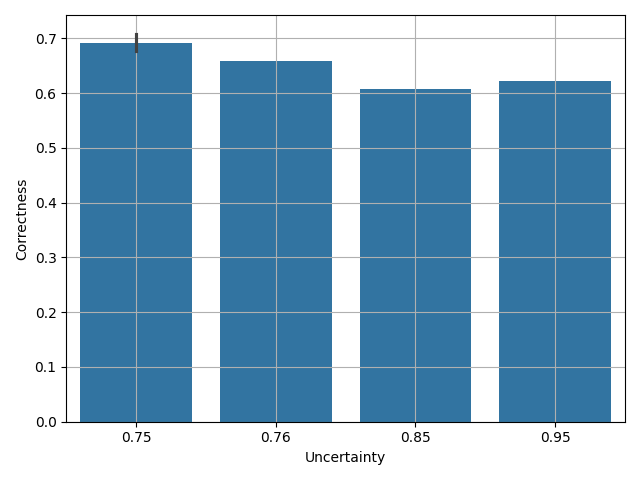
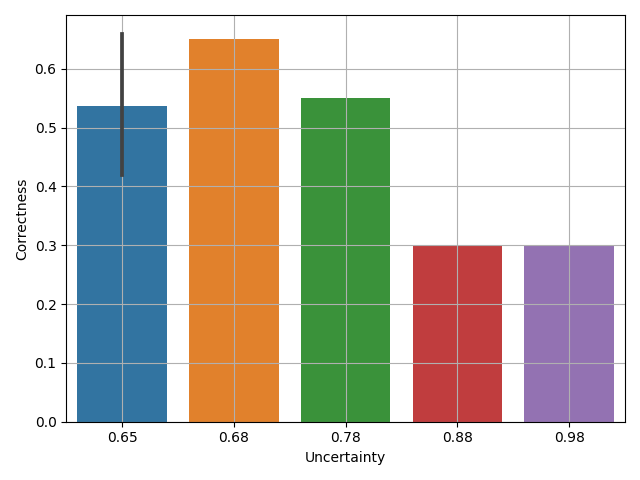
add plotting

diff --git a/run/analysis.py b/run/analysis.py
@@ -82,51 +82,59 @@ if __name__ == '__main__':
         # ax.set_xticks([y+1 for y in range(len(indicators))], labels=indicators)
         # plt.grid()
         # plt.savefig(f'../tmp/confidence_histogram_{model}_{dataset}_{method}.png')
-        correctness_score = df['score'].to_numpy()
+        correctness_score = df['score'].to_numpy() + np.random.uniform(-0.1, 0.1, len(df['score']))
+        # plot the histogram of correctness score
+        fig, ax = plt.subplots()
+        ax.hist(correctness_score, bins=20)
+        ax.set_title('Correctness score distribution')
+        ax.set_xlabel('Correctness score')
+        ax.set_ylabel('Frequency')
+        plt.grid()
+        plt.savefig(f'../tmp/correctness_histogram_{model}_{dataset}_{method}.png')
+
         for indicator in indicators:
             fig, ax = plt.subplots()
             uncertainties = df[indicator].to_numpy()
-            ax = make_plots.histogram(correctness_score, uncertainties, fig, ax)
-            plt.savefig(f'../tmp/erce_{model}_{dataset}_{indicator}.png')
-            breakpoint()
+            ax = make_plots.histogram_alternative(correctness_score, uncertainties, fig, ax)
+            plt.savefig(f'../tmp/erce_alternative{model}_{dataset}_{indicator}.png')
 
-        fig, ax = plt.subplots()
-        ax.violinplot(df[indicators],
-                  showmeans=False,
-                  showmedians=True)
-        ax.set_title('Uncertainty value distribution')
-        ax.set_xticks([y+1 for y in range(len(indicators))], labels=indicators)
-        plt.grid()
-        plt.savefig(f'../tmp/confidence_histogram_{model}_{dataset}_{method}.png')
+        # fig, ax = plt.subplots()
+        # ax.violinplot(df[indicators],
+        #           showmeans=False,
+        #           showmedians=True)
+        # ax.set_title('Uncertainty value distribution')
+        # ax.set_xticks([y+1 for y in range(len(indicators))], labels=indicators)
+        # plt.grid()
+        # plt.savefig(f'../tmp/confidence_histogram_{model}_{dataset}_{method}.png')
         
-        if 'entropy' in indicators:
-            fig, ax = plt.subplots()
-            threshold = 0.5
-            y_true = correctness >= threshold
-            y_score = -df['entropy']
-            # plot roc curve
-            fpr, tpr, _ = roc_curve(y_true, y_score)
-            ax.plot(fpr, tpr, label='ROC curve')
-            ax.plot([0, 1], [0, 1], 'k--', label='Random')
-            ax.set_xlabel('False Positive Rate')
-            ax.set_ylabel('True Positive Rate')
-            ax.set_title('ROC curve')
-            ax.legend()
-            ax.grid()
-            plt.savefig(f'../tmp/roc_curve_{model}_{dataset}_{method}.png')
+        # if 'entropy' in indicators:
+        #     fig, ax = plt.subplots()
+        #     threshold = 0.5
+        #     y_true = correctness_score >= threshold
+        #     y_score = -df['entropy']
+        #     # plot roc curve
+        #     fpr, tpr, _ = roc_curve(y_true, y_score)
+        #     ax.plot(fpr, tpr, label='ROC curve')
+        #     ax.plot([0, 1], [0, 1], 'k--', label='Random')
+        #     ax.set_xlabel('False Positive Rate')
+        #     ax.set_ylabel('True Positive Rate')
+        #     ax.set_title('ROC curve')
+        #     ax.legend()
+        #     ax.grid()
+        #     plt.savefig(f'../tmp/roc_curve_{model}_{dataset}_{method}.png')
         
-        if 'degree' in indicators:
-            fig, ax = plt.subplots()
-            threshold = 0.5
-            y_true = correctness >= threshold
-            y_score = -df['degree']
-            # plot roc curve
-            fpr, tpr, _ = roc_curve(y_true, y_score)
-            ax.plot(fpr, tpr, label='ROC curve')
-            ax.plot([0, 1], [0, 1], 'k--', label='Random')
-            ax.set_xlabel('False Positive Rate')
-            ax.set_ylabel('True Positive Rate')
-            ax.set_title('ROC curve')
-            ax.legend()
-            ax.grid()
-            plt.savefig(f'../tmp/roc_curve_{model}_{dataset}_{method}_degree.png')
+        # if 'degree' in indicators:
+        #     fig, ax = plt.subplots()
+        #     threshold = 0.5
+        #     y_true = correctness >= threshold
+        #     y_score = -df['degree']
+        #     # plot roc curve
+        #     fpr, tpr, _ = roc_curve(y_true, y_score)
+        #     ax.plot(fpr, tpr, label='ROC curve')
+        #     ax.plot([0, 1], [0, 1], 'k--', label='Random')
+        #     ax.set_xlabel('False Positive Rate')
+        #     ax.set_ylabel('True Positive Rate')
+        #     ax.set_title('ROC curve')
+        #     ax.legend()
+        #     ax.grid()
+        #     plt.savefig(f'../tmp/roc_curve_{model}_{dataset}_{method}_degree.png')

diff --git a/indicators/blackbox.py b/indicators/blackbox.py
@@ -127,10 +127,12 @@ class Eccentricity(BlackBox):
         '''
         batch_sim_mats = jaccard_similarity(batch_responses) if self.affinity_mode == 'jaccard' else self.sm.similarity_mat(batch_prompts, batch_responses)
         batch_projected = spectral_projected(self.affinity_mode, batch_sim_mats, threshold=0.1)
-        batch_Cs = [-np.linalg.norm(projected-projected.mean(0)[None, :],2,axis=1) for projected in batch_projected]
+        # batch_Cs = [-np.linalg.norm(projected-projected.mean(0)[None, :],2,axis=1) for projected in batch_projected]
         # batch_U = [np.linalg.norm(projected-projected.mean(0)[None, :],2).clip(-1, 1) for projected in batch_projected]
-        batch_U = [np.linalg.norm(projected-projected.mean(0)[None, :], 2) for projected in batch_projected]
-        return batch_U, batch_Cs
+        # batch_U = [np.linalg.norm(projected-projected.mean(0)[None, :], 2) for projected in batch_projected]
+        # return batch_U, batch_Cs
+        ds = np.asarray([np.linalg.norm(x -x.mean(0)[None, :],2,axis=1) for x in batch_projected])
+        return np.linalg.norm(ds, 2,1), ds
     
 class Degree(BlackBox):
     def __init__(self, affinity_mode='disagreement', semantic_model=None, device='cuda'):
@@ -149,9 +151,11 @@ class Degree(BlackBox):
         '''
         batch_sim_mat = jaccard_similarity(batch_responses) if self.affinity_mode == 'jaccard' else self.sm.similarity_mat(batch_prompts, batch_responses)
         batch_W = [pc.get_affinity_mat(sim_mat, self.affinity_mode) for sim_mat in batch_sim_mat]
-        batch_Cs = [np.mean(W, axis=1) for W in batch_W]
-        batch_U = [1/W.shape[0]-np.sum(W)/W.shape[0]**2 for W in batch_W]
-        return batch_U, batch_Cs
+        # batch_Cs = [np.mean(W, axis=1) for W in batch_W]
+        # batch_U = [1/W.shape[0]-np.sum(W)/W.shape[0]**2 for W in batch_W]
+        # return batch_U, batch_Cs
+        ret = np.asarray([np.sum(1-_, axis=1) for _ in batch_W])
+        return ret.mean(1), ret
 
 class SpectralEigv(BlackBox):
     def __init__(self, affinity_mode, temperature=1.0, semantic_model=None, adjust=False, device='cuda'):

diff --git a/utils/make_plots.py b/utils/make_plots.py
@@ -53,3 +53,40 @@ def histogram(correctness, uncertainties, fig, ax, num_bins=10, **kwargs):
     ax.grid()
     fig.tight_layout()
     return ax
+
+def histogram_alternative(correctness, uncertainties, fig, ax, num_bins=10, **kwargs):
+    n = len(correctness)
+    bin_endpoints = [round(ele) for ele in np.linspace(0, n, num_bins+1)]
+    sorted_indices = np.argsort(uncertainties)
+    correctness = correctness[sorted_indices]
+    uncertainties = uncertainties[sorted_indices]
+    a_map = -np.ones_like(correctness)
+    u_map = np.zeros_like(uncertainties)
+    a_hats = []
+    u_hats = []
+    # compute a_hat, u_hat and a_map: i -> a_hat, u_map: i -> u_hat
+    for idx_bin in range(1, num_bins+1):
+        lo, hi = bin_endpoints[idx_bin-1], bin_endpoints[idx_bin]
+        if hi > lo:
+            # if idx_bin == num_bins:  hi += 1
+            bin_correctness = correctness[lo:hi]
+            a_hat = np.mean(bin_correctness)
+            a_map[lo:hi] = a_hat
+            u_hat = np.mean(uncertainties[lo:hi]) if hi > lo else None
+            u_map[lo:hi] = u_hat
+            a_hats.append(a_hat)
+            u_hats.append(u_hat)
+    
+    count_corrects = []
+    count_uncertainties = []
+    for a_hat, u_hat in zip(a_hats, u_hats):
+        count_correct = (np.sum(a_map >= a_hat) - (1+np.sum(a_map == a_hat)) / 2) / (n-1)
+        count_uncertainty = (np.sum(u_map >= u_hat) - (1+np.sum(u_map == u_hat)) / 2) / (n-1)
+        count_corrects.append(count_correct)
+        count_uncertainties.append(count_uncertainty)
+    sns.barplot(x=[round(count_uncertainty, 2) for count_uncertainty in count_uncertainties], y=count_corrects, ax=ax, **kwargs)
+    ax.set_xlabel('Uncertainty')
+    ax.set_ylabel('Correctness')
+    ax.grid()
+    fig.tight_layout()
+    return ax
